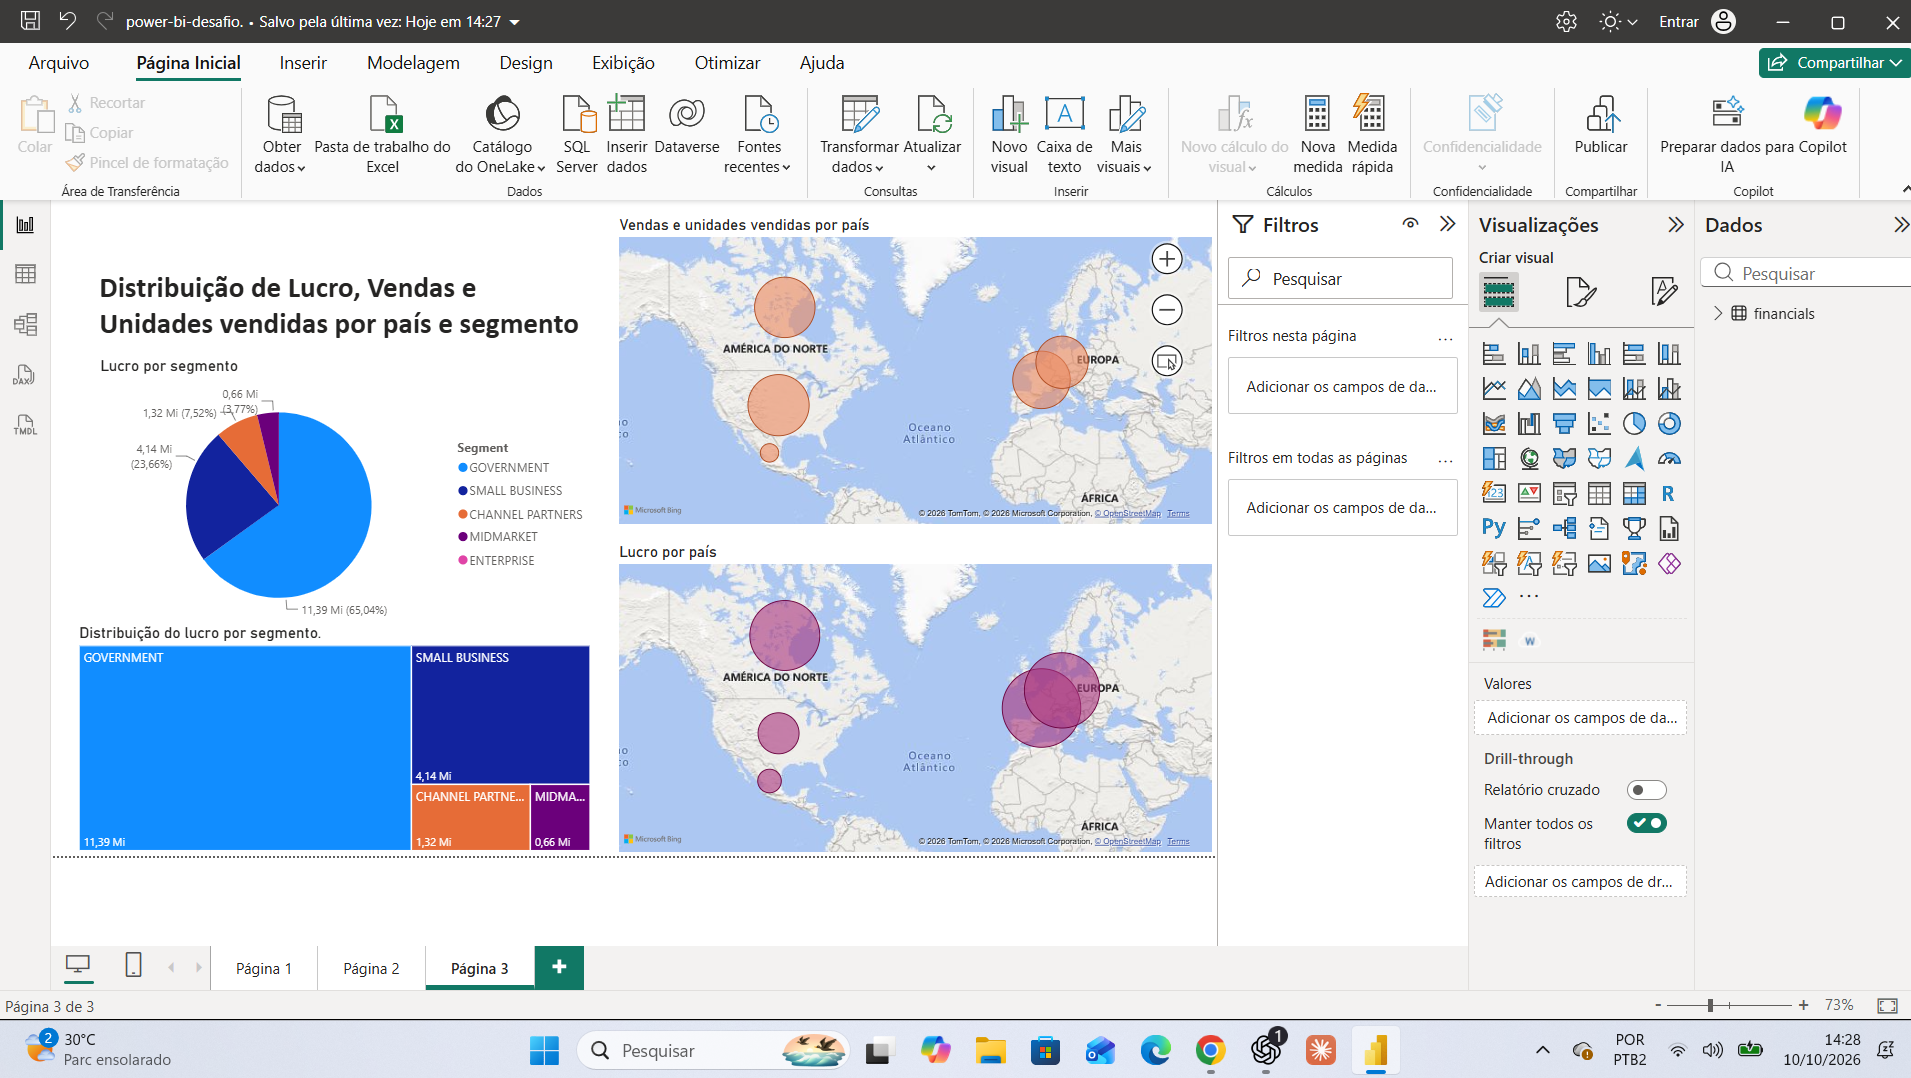
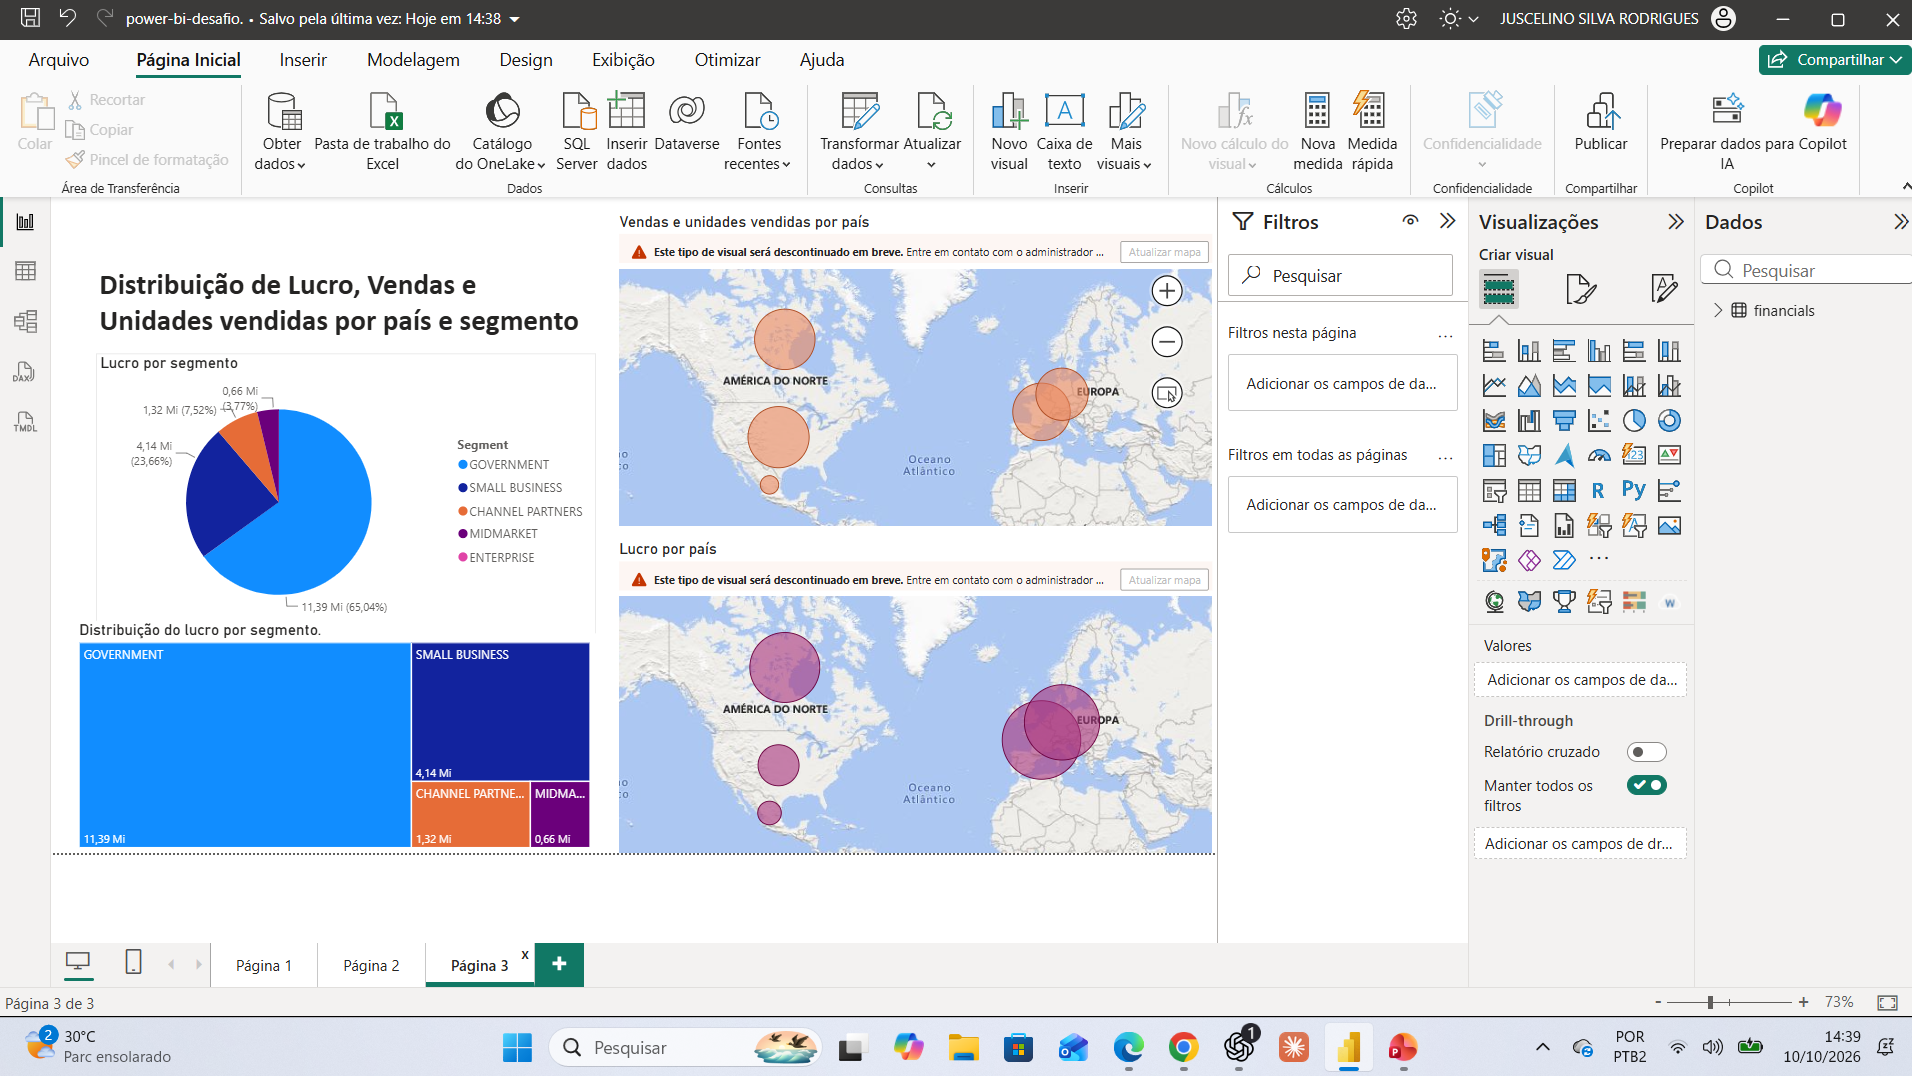
Atualiza capturas das paginas e arquivo do desafio

diff --git a/desafios/relatorio-vendas/README.md b/desafios/relatorio-vendas/README.md
@@ -31,7 +31,11 @@ A publicação foi confirmada pela mensagem de êxito no Power BI Desktop. O lin
 
 ## Evidências
 
+![Segunda página: vendas, unidades e lucro por país e período](evidencias/pagina-2.png)
+
 ![Terceira página com mapas e títulos ajustados](evidencias/pagina-3.png)
+
+A captura mais recente da terceira página exibe um aviso de futura descontinuação do tipo de mapa utilizado. Os mapas estão renderizando na captura; uma atualização do visual poderá ser necessária. Dois dos prints enviados mostram o mesmo conteúdo da terceira página, por isso foi incluída uma única captura dessa tela. A captura da primeira página ainda não foi adicionada.
 
 ![Publicação concluída](evidencias/publicacao.png)
 
